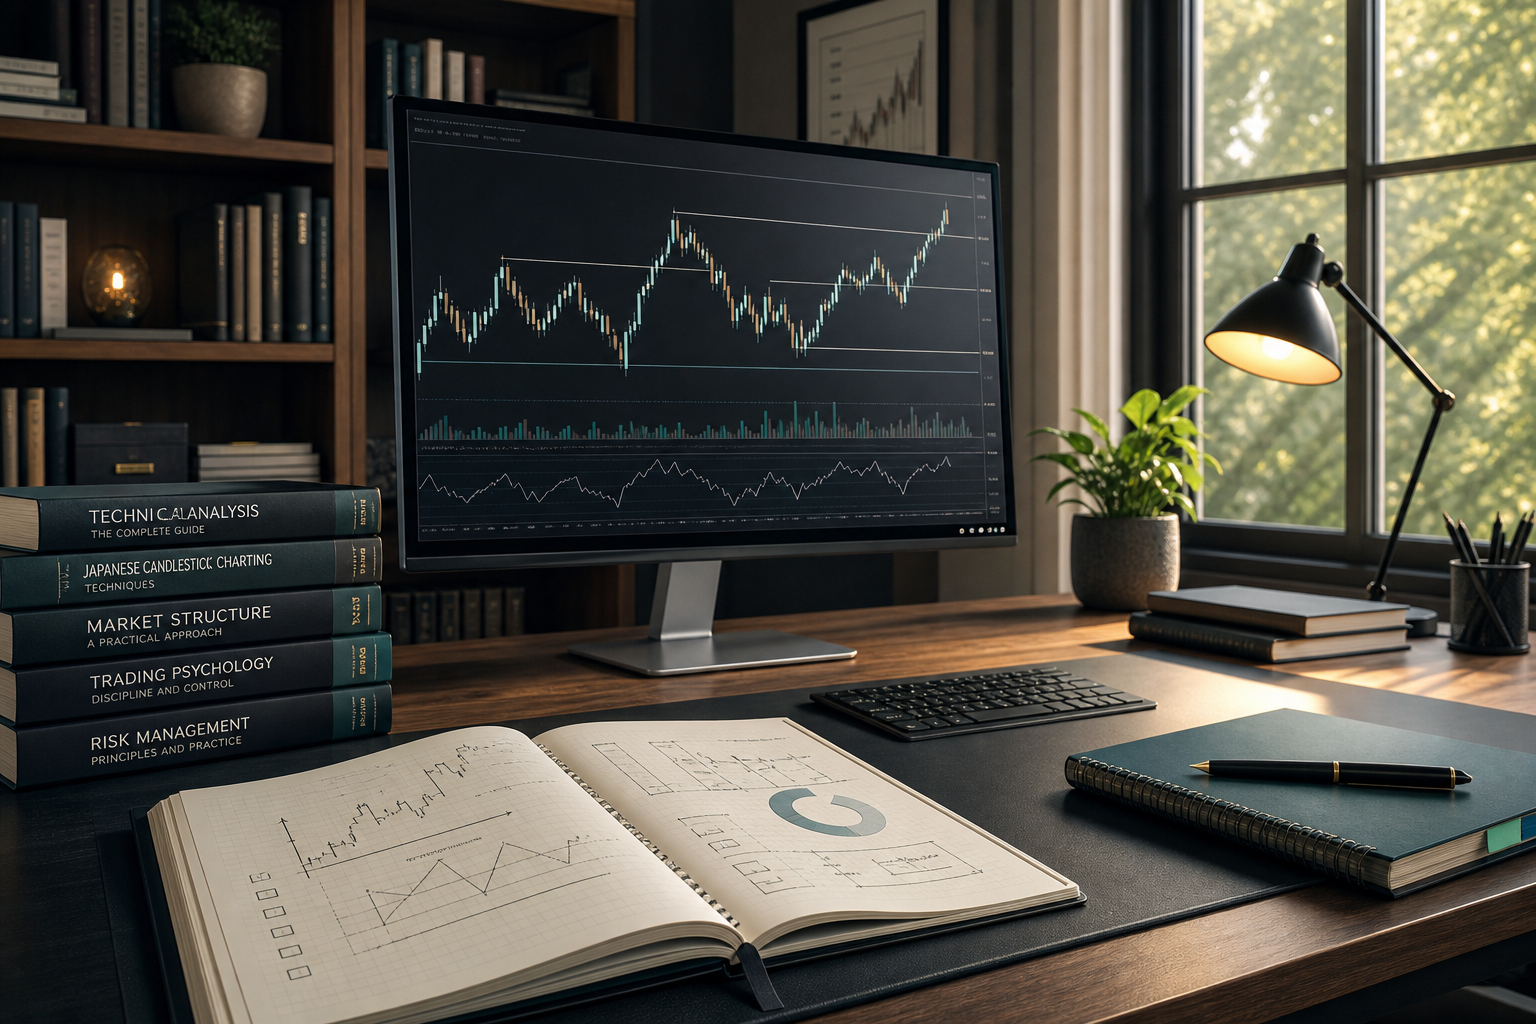
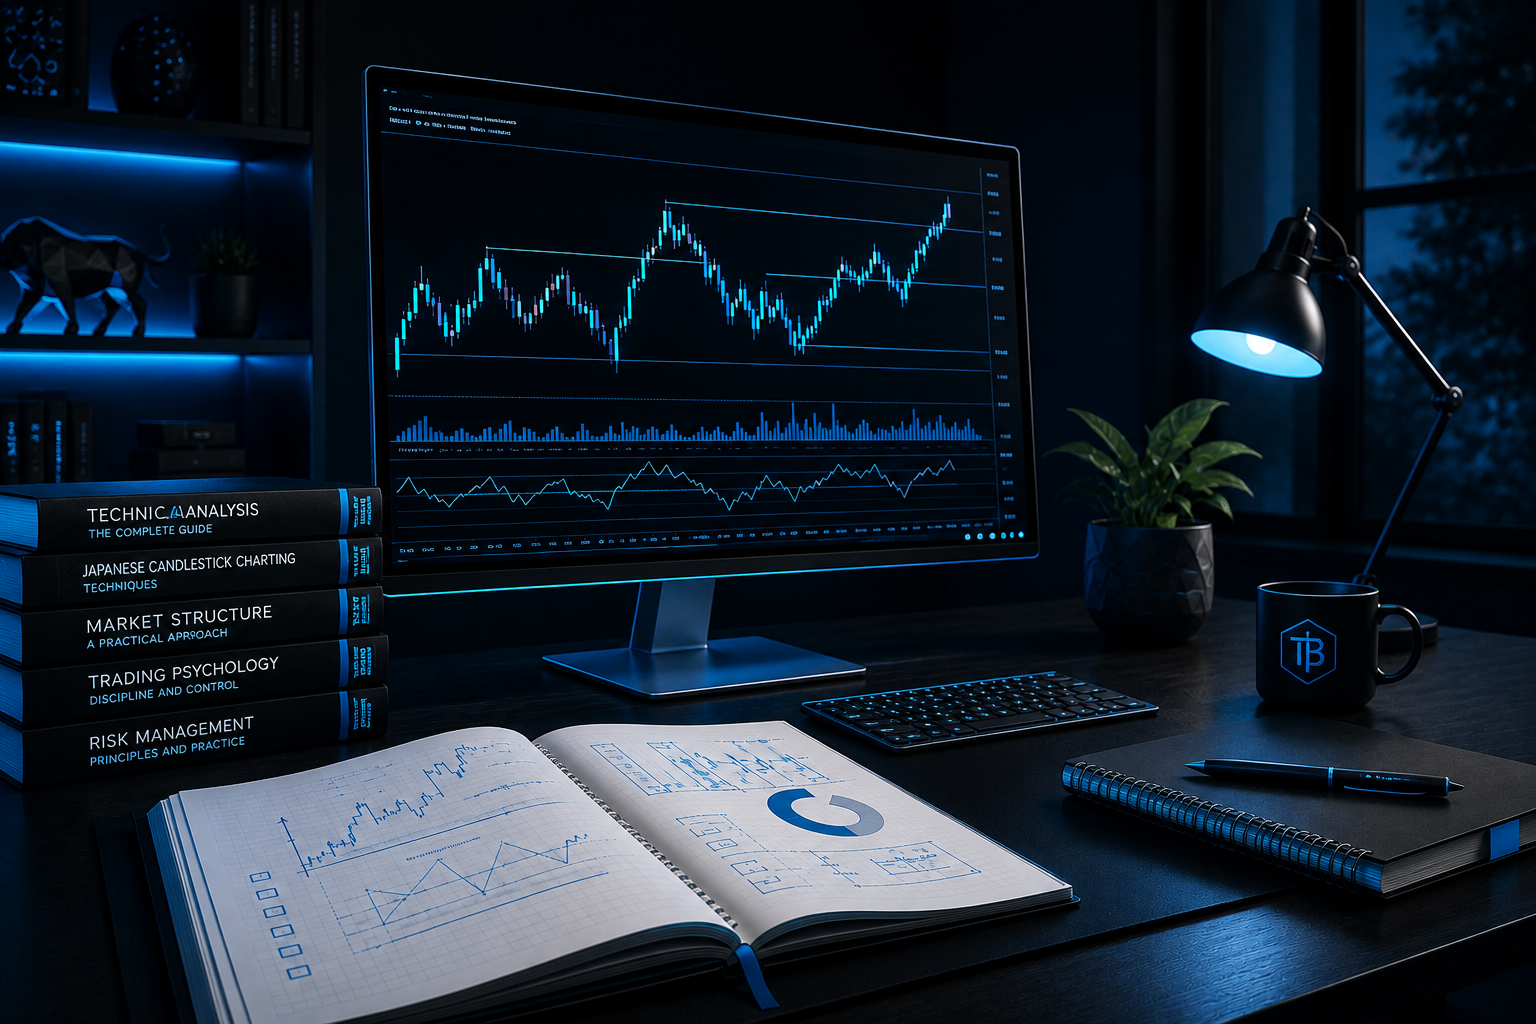
Add shareable course pages and member reviews

diff --git a/src/App.tsx b/src/App.tsx
@@ -247,6 +247,8 @@ const courseThumbnail = (course: Pick<PublicCourse, 'title' | 'thumbnail_url'>) 
   return course.thumbnail_url || fallbackCourses[0].thumbnail_url;
 };
 
+const courseSlug = (title: string) => (title.toLowerCase().includes('funded') ? 'funded-trader-blueprint' : 'forex-mastery');
+
 function TestimonialCarousel({ testimonials, direction = 'forward', onSelect }: { testimonials: Testimonial[], direction?: 'forward' | 'backward', onSelect: (t: Testimonial) => void }) {
   const [emblaRef] = useEmblaCarousel({ loop: true, dragFree: true }, [
     AutoScroll({ playOnInit: true, direction, speed: 1, stopOnInteraction: false, stopOnMouseEnter: true })
@@ -467,6 +469,20 @@ export default function App() {
   }, []);
 
   useEffect(() => {
+    const syncCoursePage = () => {
+      const slug = window.location.hash.startsWith('#course/') ? window.location.hash.slice('#course/'.length) : '';
+      if (!slug) {
+        setCourseDetailsOpen(null);
+        return;
+      }
+      setCourseDetailsOpen(publicCourses.find((course) => courseSlug(course.title) === slug) || null);
+    };
+    syncCoursePage();
+    window.addEventListener('hashchange', syncCoursePage);
+    return () => window.removeEventListener('hashchange', syncCoursePage);
+  }, [publicCourses]);
+
+  useEffect(() => {
     const loadPublicCourses = async () => {
       if (!supabase) return;
       const { data, error } = await supabase
@@ -538,6 +554,16 @@ export default function App() {
     setCreatedOrderId('');
     setJoinForm((current) => ({ ...current, courseName }));
     window.location.hash = 'checkout';
+  };
+
+  const openCourseDetails = (course: PublicCourse) => {
+    setCourseDetailsOpen(course);
+    window.location.hash = `course/${courseSlug(course.title)}`;
+  };
+
+  const closeCourseDetails = () => {
+    history.pushState(null, '', window.location.pathname + window.location.search);
+    setCourseDetailsOpen(null);
   };
 
   const closeHashPage = () => {
@@ -1171,7 +1197,7 @@ export default function App() {
                           )}
                         </div>
                         <div className="mt-auto flex flex-nowrap gap-2.5 pt-6 font-inter lg:gap-4 lg:pt-7">
-                          <button onClick={() => setCourseDetailsOpen(course)} className="group inline-flex min-w-0 flex-1 items-center justify-center border border-electric bg-transparent px-3 py-3 font-inter text-[9px] font-bold uppercase tracking-[0.1em] text-white transition hover:bg-electric hover:text-black sm:px-4 sm:text-[10px] md:px-2 md:text-[8px] lg:px-6 lg:py-4 lg:text-xs lg:tracking-widest">
+                          <button onClick={() => openCourseDetails(course)} className="group inline-flex min-w-0 flex-1 items-center justify-center border border-electric bg-transparent px-3 py-3 font-inter text-[9px] font-bold uppercase tracking-[0.1em] text-white transition hover:bg-electric hover:text-black sm:px-4 sm:text-[10px] md:px-2 md:text-[8px] lg:px-6 lg:py-4 lg:text-xs lg:tracking-widest">
                             View Course
                           </button>
                           <button onClick={() => openCheckout(course.title)} className="group inline-flex min-w-0 flex-1 items-center justify-center bg-electric px-3 py-3 font-inter text-[9px] font-bold uppercase tracking-[0.1em] text-black transition hover:bg-skyline sm:px-4 sm:text-[10px] md:px-2 md:text-[8px] lg:px-6 lg:py-4 lg:text-xs lg:tracking-widest">
@@ -1192,7 +1218,7 @@ export default function App() {
               <div className="mb-10 flex flex-col justify-between gap-4 md:flex-row md:items-end">
                 <div>
                   <div className="mb-4 font-inter text-xs uppercase tracking-[0.3em] text-electric">Testimonials</div>
-                  <h2 className="font-podium text-[2.5rem] uppercase leading-none text-white sm:text-6xl">Student feedback.</h2>
+                  <h2 className="font-podium text-[2.5rem] uppercase leading-none text-white sm:text-6xl">Members Review.</h2>
                 </div>
                 <p className="max-w-md font-inter text-sm text-white/60">Results vary by student. The courses focus on process, discipline, and risk-first decision making.</p>
               </div>
@@ -1290,7 +1316,7 @@ export default function App() {
       {courseDetailsOpen && (
         <div className="fixed inset-0 z-50 bg-ink overflow-y-auto page-enter flex flex-col">
           <header className="sticky top-0 z-40 border-b border-white/10 bg-ink/90 backdrop-blur-xl px-6 py-4 flex items-center justify-between">
-            <button onClick={() => setCourseDetailsOpen(null)} className="flex h-10 w-10 items-center justify-center text-electric transition hover:text-skyline" aria-label="Back to home">
+            <button onClick={closeCourseDetails} className="flex h-10 w-10 items-center justify-center text-electric transition hover:text-skyline" aria-label="Back to home">
               <ArrowLeft className="h-5 w-5" />
             </button>
             <div className="font-podium text-lg uppercase text-white">Course Details</div>
@@ -1374,6 +1400,28 @@ export default function App() {
                   </ul>
                </div>
             </div>
+
+            <section className="mt-14 border-t border-white/10 pt-12 font-inter md:mt-20 md:pt-16">
+              <div className="mb-8 flex flex-col justify-between gap-4 sm:flex-row sm:items-end">
+                <div>
+                  <div className="mb-3 text-xs uppercase tracking-[0.3em] text-electric">Real learning experiences</div>
+                  <h3 className="font-podium text-[2.5rem] uppercase leading-none text-white sm:text-5xl">Members Review</h3>
+                </div>
+                <p className="max-w-sm text-sm leading-relaxed text-white/50">Feedback from Trading Boy members learning disciplined, risk-first execution.</p>
+              </div>
+              <div className="grid gap-4 md:grid-cols-2 lg:grid-cols-3">
+                {testimonials.slice(0, 6).map((testimonial) => (
+                  <button key={testimonial.id} type="button" onClick={() => setSelectedTestimonial(testimonial)} className="smooth-card flex h-full flex-col border border-white/10 bg-black p-5 text-left hover:border-electric/35">
+                    <MessageSquareQuote className="h-6 w-6 text-electric" />
+                    <p className="mt-5 flex-1 text-sm leading-relaxed text-white/75">“{testimonial.quote}”</p>
+                    <div className="mt-6 border-t border-white/10 pt-4">
+                      <div className="text-sm font-semibold text-white">{testimonial.name}</div>
+                      <div className="mt-1 text-[9px] uppercase tracking-[0.18em] text-electric">{testimonial.role}</div>
+                    </div>
+                  </button>
+                ))}
+              </div>
+            </section>
           </div>
         </div>
       )}
@@ -1605,8 +1653,13 @@ export default function App() {
                 <CheckCircle className="h-9 w-9 text-electric" />
                 <h3 className="mt-4 text-2xl font-bold text-white">Thank you for joining {selectedCourse.title}.</h3>
                 <p className="mt-3 leading-relaxed text-white/70">
-                  Your payment is waiting for admin approval. You will get course access via email within 12 hours. If not, message trading_boy_tamil on Instagram.
+                  Your payment is waiting for admin approval. You will get course access via email within 12 hours. If you need help, contact us on Instagram.
                 </p>
+                <a href="https://www.instagram.com/trading_boy_tamil/?hl=en" target="_blank" rel="noreferrer" className="mt-5 inline-flex min-h-12 items-center justify-center gap-2 border border-electric bg-electric px-5 py-3 text-[10px] font-bold uppercase tracking-[0.16em] text-black transition hover:bg-skyline">
+                  <Instagram className="h-4 w-4" />
+                  Message on Instagram
+                  <ArrowUpRight className="h-4 w-4" />
+                </a>
                 {createdOrderId && <p className="mt-4 text-xs text-white/45">Order ID: {createdOrderId}</p>}
               </div>
             )}

diff --git a/public/courses/funded-trader-blueprint.html b/public/courses/funded-trader-blueprint.html
@@ -1,0 +1,19 @@
+<!doctype html>
+<html lang="en">
+  <head>
+    <meta charset="UTF-8" />
+    <meta name="viewport" content="width=device-width, initial-scale=1.0" />
+    <meta name="description" content="Explore the Blueprint to Become a Funded Trader course from Trading Boy." />
+    <meta property="og:title" content="Blueprint to Become a Funded Trader | Trading Boy" />
+    <meta property="og:description" content="Learn gold day trading, evaluation strategy, drawdown control, and risk-first funded-account execution." />
+    <meta property="og:type" content="website" />
+    <meta property="og:url" content="https://tradingboy.in/courses/funded-trader-blueprint.html" />
+    <link rel="canonical" href="https://tradingboy.in/courses/funded-trader-blueprint.html" />
+    <meta http-equiv="refresh" content="0; url=/#course/funded-trader-blueprint" />
+    <title>Blueprint to Become a Funded Trader | Trading Boy</title>
+  </head>
+  <body style="margin:0;background:#080d12;color:#fff;font-family:Arial,sans-serif">
+    <p style="padding:24px">Opening <a href="/#course/funded-trader-blueprint" style="color:#38b6ff">Blueprint to Become a Funded Trader</a>…</p>
+    <script>window.location.replace('/#course/funded-trader-blueprint');</script>
+  </body>
+</html>

diff --git a/public/courses/forex-mastery.html b/public/courses/forex-mastery.html
@@ -1,0 +1,19 @@
+<!doctype html>
+<html lang="en">
+  <head>
+    <meta charset="UTF-8" />
+    <meta name="viewport" content="width=device-width, initial-scale=1.0" />
+    <meta name="description" content="Explore the Complete Forex Mastery course from Trading Boy." />
+    <meta property="og:title" content="Complete Forex Mastery | Trading Boy" />
+    <meta property="og:description" content="Build a structured forex trading process with practical education, risk management, and disciplined execution." />
+    <meta property="og:type" content="website" />
+    <meta property="og:url" content="https://tradingboy.in/courses/forex-mastery.html" />
+    <link rel="canonical" href="https://tradingboy.in/courses/forex-mastery.html" />
+    <meta http-equiv="refresh" content="0; url=/#course/forex-mastery" />
+    <title>Complete Forex Mastery | Trading Boy</title>
+  </head>
+  <body style="margin:0;background:#080d12;color:#fff;font-family:Arial,sans-serif">
+    <p style="padding:24px">Opening <a href="/#course/forex-mastery" style="color:#38b6ff">Complete Forex Mastery</a>…</p>
+    <script>window.location.replace('/#course/forex-mastery');</script>
+  </body>
+</html>
